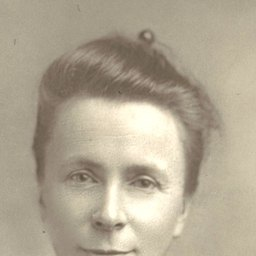
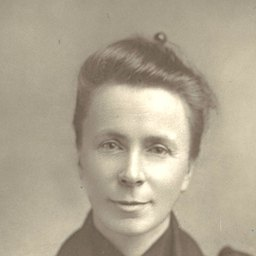
Diving Bryant: no gap under the film, "Why is Jeju's sea special?" in its own box, her whole face
After Daniel looked at the live page. On a wide screen the film and a new box share one
column and the heading and the depth line the other, both of one height: the box grows or
the steps of the line spread, and every size in the block is a multiple of one unit that
grows with the screen at the film's rate (measured from 1280 to 2200 px). "Why Jeju?"
was a grey line at the foot; it is now a tangerine box of three short points, each with
a small sign. Sophie Bryant's portrait is cut again so her whole face is in the circle.

diff --git a/css/hub.css b/css/hub.css
@@ -824,7 +824,12 @@ body[data-view]:not([data-view="revision"]) .beyond{margin-top:4px}
    buildFeature). The block is a column of water: light at the top, dark at the foot, so reading
    down the page is going down. The film stands beside the words on a wide screen and between the
    heading and the depth line on a narrow one. */
+/* --k is the block's unit of type: 12.8px up to a 1280px screen, then 1% of the screen's width up to
+   1600px. Every size in the block is a multiple of it, so from 1280px the words grow at the rate the
+   film grows and the two columns keep one height. Past 1600px the block's contents stop growing
+   (max-width below) and stand in the middle of the water. */
 .feat{
+  --k:clamp(12.8px,1vw,16px);
   position:relative;isolation:isolate;overflow:hidden;flex:none;border-radius:10px;
   padding:clamp(16px,2.2vw,34px);color:var(--chalk);
   background:linear-gradient(180deg,#0C6480 0%,#0A4D6B 20%,#083855 48%,#06253E 76%,#04172B 100%)
@@ -855,19 +860,28 @@ body[data-view]:not([data-view="revision"]) .beyond{margin-top:4px}
 }
 .feat__main{
   display:grid;grid-template-columns:minmax(0,1.55fr) minmax(290px,1fr);
-  grid-template-areas:"film head" "film rail";grid-template-rows:auto 1fr;
-  gap:clamp(14px,1.6vw,22px) clamp(18px,2.6vw,40px);align-items:start
+  gap:clamp(14px,1.6vw,22px) clamp(18px,2.6vw,40px);align-items:stretch
 }
+.feat__main,.feat__stills,.facts{max-width:1476px;margin-left:auto;margin-right:auto}
+/* Two columns of one height. The film and the "why" box stand in one, the heading and the depth line
+   in the other, and the slack goes where it is not seen as a hole: the box grows, or the steps of the
+   line spread. (With the film alone in its column, the taller words left empty water under it.) Below
+   1280px the two wrappers stand aside (`display:contents`) and the four parts are laid out by area. */
+.feat__a,.feat__b{display:flex;flex-direction:column;min-width:0;gap:clamp(12px,1.4vw,18px)}
+.feat__a{grid-column:1;grid-row:1}
+.feat__b{grid-column:2;grid-row:1}
 .feat__head{grid-area:head;min-width:0}
 .feat__film{grid-area:film;margin:0;min-width:0}
-.feat__rail{grid-area:rail;min-width:0}
-.feat__no{font-family:var(--mono);font-size:10.5px;font-weight:500;letter-spacing:.16em;text-transform:uppercase;color:var(--accent)}
-.feat__title{font-family:var(--serif);font-size:clamp(30px,3.3vw,50px);letter-spacing:-.018em;margin-top:6px;color:#fff}
+.feat__rail{grid-area:rail;min-width:0;flex:1 1 auto;display:flex;flex-direction:column}
+.feat__rail .rail{flex:1 1 auto;display:flex;flex-direction:column;justify-content:space-between}
+.why{grid-area:why;flex:1 1 auto}
+.feat__no{font-family:var(--mono);font-size:calc(var(--k) * .82);font-weight:500;letter-spacing:.16em;text-transform:uppercase;color:var(--accent)}
+.feat__title{font-family:var(--serif);font-size:clamp(30px,3.3vw,53px);letter-spacing:-.018em;margin-top:6px;color:#fff}
 .feat__title em{font-style:italic;color:var(--accent)}
-.feat__sub{font-family:var(--serif);font-style:italic;font-size:clamp(17px,1.5vw,23px);line-height:1.25;color:#C9F1F6;margin-top:4px}
-.feat__lede{margin-top:12px;font-size:15px;color:#DCEAF1}
+.feat__sub{font-family:var(--serif);font-style:italic;font-size:clamp(17px,1.5vw,24px);line-height:1.25;color:#C9F1F6;margin-top:4px}
+.feat__lede{margin-top:12px;font-size:calc(var(--k) * 1.172);color:#DCEAF1}
 .feat .door__chips{max-height:none;opacity:1;margin-top:14px}
-.feat .chip{color:#EAF6FA;border-color:rgba(255,255,255,.3);background:rgba(4,23,43,.35)}
+.feat .chip{font-size:calc(var(--k) * .78);color:#EAF6FA;border-color:rgba(255,255,255,.3);background:rgba(4,23,43,.35)}
 
 /* the film: nothing is fetched until the press */
 .film{
@@ -896,25 +910,41 @@ body[data-view]:not([data-view="revision"]) .beyond{margin-top:4px}
 .film__play:focus-visible{outline-offset:-4px}
 .film__lbl{font-family:var(--serif);font-size:clamp(20px,2.1vw,30px);line-height:1.15;text-shadow:0 2px 14px rgba(0,8,22,.7)}
 .film__len{font-family:var(--mono);font-size:10.5px;letter-spacing:.14em;text-transform:uppercase;color:#D5EEF5}
-.film__credit{margin-top:9px;font-size:12.5px;color:#B9D3DE}
+.film__credit{margin-top:9px;font-size:calc(var(--k) * .977);color:#B9D3DE}
 
 /* the depth line: each step of the course at its depth. The step the film is in is lit. */
-.feat__label,.feat__h h3{font-family:var(--mono);font-size:10.5px;font-weight:500;letter-spacing:.16em;text-transform:uppercase;color:#A9DCE8}
+.feat__label,.feat__h h3{font-family:var(--mono);font-size:calc(var(--k) * .82);font-weight:500;letter-spacing:.16em;text-transform:uppercase;color:#A9DCE8}
 .rail{position:relative;margin-top:8px}
 .rail::before{content:"";position:absolute;left:66px;top:16px;bottom:16px;width:1px;background:linear-gradient(rgba(190,236,246,.9),rgba(190,236,246,.2))}
 .rail__step{position:relative;display:grid;grid-template-columns:48px 20px minmax(0,1fr);column-gap:8px;padding:7px 0;align-items:start}
-.rail__mark{font-family:var(--mono);font-size:11px;letter-spacing:.04em;text-align:right;color:#A9DCE8;padding-top:3px;white-space:nowrap;transition:color .3s}
+.rail__mark{font-family:var(--mono);font-size:calc(var(--k) * .86);letter-spacing:.04em;text-align:right;color:#A9DCE8;padding-top:3px;white-space:nowrap;transition:color .3s}
 .rail__dot{justify-self:center;width:11px;height:11px;margin-top:5px;border-radius:50%;background:#0A4D6B;border:1.5px solid #BEECF6;position:relative;z-index:1;transition:background .3s,box-shadow .3s,border-color .3s}
-.rail__t{font-weight:500;font-size:14.5px;color:#fff}
+.rail__t{font-weight:500;font-size:calc(var(--k) * 1.2);color:#fff}
 .rail__t::after{content:".";}
-.rail__text{font-size:14px;line-height:1.5;color:#D3E4EC}
+.rail__text{font-size:calc(var(--k) * 1.172);line-height:1.5;color:#D3E4EC}
 .rail__step.is-live .rail__mark{color:#fff}
 .rail__step.is-live .rail__dot{background:var(--accent);border-color:#fff;box-shadow:0 0 0 5px color-mix(in srgb,var(--accent) 32%,transparent)}
+
+/* the "why" box: the colour of a Jeju tangerine on the cold water, so it is seen (Daniel, 2 Oct 2026:
+   "right now you don't really see it"). Dark words on it. A heading and two or three short points. */
+.why{
+  display:flex;flex-direction:column;justify-content:center;gap:10px;border-radius:12px;
+  padding:clamp(12px,1.2vw,16px) clamp(14px,1.5vw,20px);color:#2B1608;
+  background:linear-gradient(115deg,#FF9A63 0%,#FFB45E 55%,#FFC873 100%);
+  box-shadow:inset 0 0 0 1px rgba(255,255,255,.35),0 12px 34px rgba(0,8,22,.4)
+}
+.why__k{font-family:var(--serif);font-size:clamp(18px,1.45vw,24px);line-height:1.15;color:#1A0F08}
+.why__list{display:grid;grid-template-columns:repeat(3,minmax(0,1fr));gap:10px clamp(12px,1.4vw,22px)}
+.why__i{display:flex;flex-direction:column;gap:5px;min-width:0}
+.why__top{display:flex;align-items:center;gap:8px;min-width:0}
+.why__ico{flex:none;display:grid;place-items:center;width:30px;height:30px;border-radius:50%;color:#FFC873;background:#0A3350}
+.why__t{font-weight:600;font-size:calc(var(--k) * 1.055);line-height:1.25;color:#1A0F08}
+.why__text,.why__p{font-size:calc(var(--k) * 1.016);line-height:1.45;color:#3A2110}
 
 /* the stills */
 .feat__stills{margin-top:clamp(20px,2.6vw,34px)}
 .feat__h{display:flex;flex-wrap:wrap;align-items:baseline;gap:4px 16px;margin-bottom:10px}
-.feat__hint{font-size:13px;color:#C3D9E3}
+.feat__hint{font-size:calc(var(--k) * 1.016);color:#C3D9E3}
 .stills{display:grid;grid-template-columns:repeat(5,minmax(0,1fr));gap:10px}
 .stills__i{display:flex;min-width:0}
 .still{
@@ -930,17 +960,15 @@ body[data-view]:not([data-view="revision"]) .beyond{margin-top:4px}
   font-family:var(--mono);font-size:10.5px;letter-spacing:.04em;color:#04172B;background:rgba(255,255,255,.92)
 }
 .still__cap{display:flex;flex-direction:column;gap:3px;padding:10px 12px 12px}
-.still__t{font-family:var(--serif);font-weight:400;font-size:17px;line-height:1.2;color:#fff}
-.still__sci{font-family:var(--serif);font-style:italic;font-size:13.5px;line-height:1.2;color:#A9DCE8}
-.still__text{font-size:13px;line-height:1.45;color:#CFE0E8}
-.feat__why{margin-top:14px;font-size:14px;line-height:1.55;color:#D3E4EC}
-.feat__why b{font-weight:500;color:#fff;margin-right:4px}
+.still__t{font-family:var(--serif);font-weight:400;font-size:calc(var(--k) * 1.33);line-height:1.2;color:#fff}
+.still__sci{font-family:var(--serif);font-style:italic;font-size:calc(var(--k) * 1.055);line-height:1.2;color:#A9DCE8}
+.still__text{font-size:calc(var(--k) * 1.016);line-height:1.45;color:#CFE0E8}
 
 /* the facts */
-.facts{display:grid;grid-template-columns:repeat(auto-fit,minmax(210px,1fr));gap:10px;margin:clamp(16px,2vw,24px) 0 0}
+.facts{display:grid;grid-template-columns:repeat(auto-fit,minmax(210px,1fr));gap:10px;margin:clamp(16px,2vw,24px) auto 0}
 .fact{padding:10px 14px;border-radius:0 8px 8px 0;border-left:2px solid var(--accent);background:rgba(2,16,28,.42)}
 .fact dt{font-family:var(--mono);font-size:10px;letter-spacing:.14em;text-transform:uppercase;color:#A9DCE8}
-.fact dd{margin:3px 0 0;font-size:14.5px;line-height:1.45;color:#fff}
+.fact dd{margin:3px 0 0;font-size:calc(var(--k) * 1.133);line-height:1.45;color:#fff}
 /* an address is one long word: it goes on a line of its own, and may break, before it pushes a phone's page wide */
 .fact__mail{display:block;width:max-content;max-width:100%;overflow-wrap:anywhere;color:var(--accent);border-bottom:1px solid color-mix(in srgb,var(--accent) 45%,transparent)}
 .fact__mail:hover,.fact__mail:focus-visible{color:#fff;border-bottom-color:#fff}
@@ -954,8 +982,10 @@ body[data-view]:not([data-view="revision"]) .beyond{margin-top:4px}
    the depth line together stood far taller than the film and left a third of a screen of empty
    water under it. There the depth line lies along the foot instead, its steps side by side. */
 @media (min-width:901px) and (max-width:1279px){
-  .feat__main{grid-template-areas:"film head" "rail rail";grid-template-rows:auto auto;align-items:center}
-  .rail{display:grid;grid-auto-flow:column;grid-auto-columns:minmax(0,1fr);column-gap:22px}
+  .feat__a,.feat__b{display:contents}
+  .feat__main{grid-template-areas:"film head" "rail rail" "why why";grid-template-rows:auto auto auto;align-items:center}
+  .feat__rail{display:block}
+  .feat__rail .rail{display:grid;grid-auto-flow:column;grid-auto-columns:minmax(0,1fr);column-gap:22px}
   .rail::before{left:0;right:0;top:30px;bottom:auto;width:auto;height:1px;background:linear-gradient(to right,rgba(190,236,246,.9),rgba(190,236,246,.2))}
   .rail__step{display:block;padding:0}
   .rail__mark{display:block;text-align:left;padding:0;line-height:20px}
@@ -963,7 +993,9 @@ body[data-view]:not([data-view="revision"]) .beyond{margin-top:4px}
   .rail__txt{display:block}
 }
 @media (max-width:900px){
-  .feat__main{grid-template-columns:minmax(0,1fr);grid-template-areas:"head" "film" "rail";grid-template-rows:auto}
+  .feat__a,.feat__b{display:contents}
+  .feat__main{grid-template-columns:minmax(0,1fr);grid-template-areas:"head" "film" "rail" "why";grid-template-rows:auto}
+  .feat__rail,.feat__rail .rail{display:block}
   .feat .chip{font-size:10px;padding:4px 9px}
 }
 @media (max-width:560px){
@@ -980,6 +1012,7 @@ body[data-view]:not([data-view="revision"]) .beyond{margin-top:4px}
   .stills__i:last-child .still__cap{align-self:center}
   /* on a phone the card keeps the name and the link; the line between them is the first thing to go */
   .mnote__text{display:none}
+  .why__list{grid-template-columns:minmax(0,1fr)}
   .rail::before{left:60px}
   .rail__step{grid-template-columns:42px 20px minmax(0,1fr)}
 }

diff --git a/js/hub.js b/js/hub.js
@@ -355,6 +355,10 @@
        rail    the steps, each at its depth. A step with `from` (a second of the film) lights while
                the film is in that part, so the line follows the film down.
        stills  a still with `at` is a button: it plays the film from that second.
+       why     one coloured box of two or three short points, each with a small sign. On a wide
+               screen it stands under the film, and it is what makes the two columns the same
+               height: the box grows, or the steps of the rail spread, so that no empty water
+               is left under the film (css/hub.css, .feat__a and .feat__b).
 
      Nothing here moves for a reader who has asked for less movement: the stylesheet's own rule
      stops the water, and the film only ever plays when asked. */
@@ -365,6 +369,13 @@
       '<img class="' + cls + '" src="' + b + '-' + widths[widths.length - 1] + '.jpg" srcset="' + set('jpg') + '" sizes="' + sizes + '"' +
       ' alt="' + esc(alt || '') + '" loading="lazy" decoding="async" draggable="false"></picture>';
   }
+  /* the small signs in a feature's `why` box, named by `icon` in js/local.js: a current, two fish that
+     meet, a shield. Signs, not drawings of anything: each is a few strokes. */
+  var WHY_ICON = {
+    current: '<svg viewBox="0 0 24 24" width="20" height="20" fill="none" stroke="currentColor" stroke-width="1.8" stroke-linecap="round" stroke-linejoin="round"><path d="M2.5 8.5c2.4-2 4.6-2 7 0s4.6 2 7 0"/><path d="M2.5 15.5c2.4-2 4.6-2 7 0s4.6 2 7 0"/><path d="M17.5 5.5l3.5 3-3.5 3"/><path d="M17.5 12.5l3.5 3-3.5 3"/></svg>',
+    meet: '<svg viewBox="0 0 24 24" width="20" height="20" fill="none" stroke="currentColor" stroke-width="1.8" stroke-linecap="round" stroke-linejoin="round"><path d="M2.5 8c2-2.6 5.5-2.6 7.5 0-2 2.6-5.5 2.6-7.5 0z"/><path d="M10 8l2.5-2v4z"/><path d="M21.5 16c-2-2.6-5.5-2.6-7.5 0 2 2.6 5.5 2.6 7.5 0z"/><path d="M14 16l-2.5-2v4z"/></svg>',
+    shield: '<svg viewBox="0 0 24 24" width="20" height="20" fill="none" stroke="currentColor" stroke-width="1.8" stroke-linecap="round" stroke-linejoin="round"><path d="M12 3l7.5 2.8v5.4c0 4.5-3 8-7.5 9.8-4.5-1.8-7.5-5.3-7.5-9.8V5.8z"/><path d="M8.6 12.2l2.4 2.4 4.6-4.9"/></svg>'
+  };
   function clock(sec) { sec = Math.floor(sec); return Math.floor(sec / 60) + ':' + ('0' + (sec % 60)).slice(-2); }
   function buildFeature(d) {
     var el = document.createElement('article');
@@ -380,6 +391,7 @@
     el.innerHTML =
       '<div class="feat__water" aria-hidden="true">' + bubbles + '</div>' +
       '<div class="feat__main">' +
+        '<div class="feat__b">' +
         '<header class="feat__head">' +
           '<span class="feat__no">' + esc(d.eyebrow) + '</span>' +
           '<h2 class="feat__title">' + d.title + '</h2>' +
@@ -387,6 +399,14 @@
           (d.blurb ? '<p class="feat__lede">' + esc(d.blurb) + '</p>' : '') +
           chips(d) +
         '</header>' +
+        (steps.length ? '<div class="feat__rail">' +
+          (d.rail.label ? '<h3 class="feat__label">' + esc(d.rail.label) + '</h3>' : '') +
+          '<ol class="rail">' + steps.map(function (s) {
+            return '<li class="rail__step"><span class="rail__mark">' + esc(s.mark) + '</span><span class="rail__dot" aria-hidden="true"></span>' +
+              '<span class="rail__txt"><b class="rail__t">' + esc(s.t) + '</b> <span class="rail__text">' + esc(s.text) + '</span></span></li>';
+          }).join('') + '</ol></div>' : '') +
+        '</div>' +
+        '<div class="feat__a">' +
         (f ? '<figure class="feat__film">' +
           '<div class="film" data-state="idle">' +
             '<video class="film__video" playsinline preload="none" poster="assets/doors/' + esc(f.poster) + '-1280.jpg"' +
@@ -399,12 +419,16 @@
           '</div>' +
           (f.credit ? '<figcaption class="film__credit">' + esc(f.credit) + '</figcaption>' : '') +
         '</figure>' : '') +
-        (steps.length ? '<div class="feat__rail">' +
-          (d.rail.label ? '<h3 class="feat__label">' + esc(d.rail.label) + '</h3>' : '') +
-          '<ol class="rail">' + steps.map(function (s) {
-            return '<li class="rail__step"><span class="rail__mark">' + esc(s.mark) + '</span><span class="rail__dot" aria-hidden="true"></span>' +
-              '<span class="rail__txt"><b class="rail__t">' + esc(s.t) + '</b> <span class="rail__text">' + esc(s.text) + '</span></span></li>';
-          }).join('') + '</ol></div>' : '') +
+        (d.why ? '<aside class="why"' + (d.why.k ? ' aria-label="' + esc(d.why.k) + '"' : '') + '>' +
+          (d.why.k ? '<h3 class="why__k">' + esc(d.why.k) + '</h3>' : '') +
+          (d.why.points && d.why.points.length ? '<ul class="why__list">' + d.why.points.map(function (x) {
+            return '<li class="why__i"><span class="why__top">' +
+              (WHY_ICON[x.icon] ? '<span class="why__ico" aria-hidden="true">' + WHY_ICON[x.icon] + '</span>' : '') +
+              '<b class="why__t">' + esc(x.t) + '</b></span><span class="why__text">' + esc(x.text) + '</span></li>';
+          }).join('') + '</ul>' : '') +
+          (d.why.text ? '<p class="why__p">' + esc(d.why.text) + '</p>' : '') +
+        '</aside>' : '') +
+        '</div>' +
       '</div>' +
       (list.length ? '<section class="feat__stills">' +
         '<div class="feat__h"><h3>' + esc(st.title || '') + '</h3>' + (f && st.hint ? '<p class="feat__hint">' + esc(st.hint) + '</p>' : '') + '</div>' +
@@ -419,7 +443,6 @@
             ? '<button type="button" class="still still--go" data-i="' + i + '" aria-label="' + esc(x.t + '. ' + x.text + ' Play the film from ' + clock(x.at) + '.') + '">' + inner + '</button>'
             : '<div class="still">' + inner + '</div>') + '</li>';
         }).join('') + '</ul>' +
-        (d.why ? '<p class="feat__why"><b>' + esc(d.why.k) + '</b> ' + esc(d.why.text) + '</p>' : '') +
       '</section>' : '') +
       (d.facts && d.facts.length ? '<dl class="facts">' + d.facts.map(function (x) {
         return '<div class="fact"><dt>' + esc(x.k) + '</dt><dd>' + esc(x.v) +

diff --git a/applications.html b/applications.html
@@ -12,7 +12,7 @@
 <link rel="preconnect" href="https://fonts.googleapis.com">
 <link rel="preconnect" href="https://fonts.gstatic.com" crossorigin>
 <link rel="stylesheet" href="https://fonts.googleapis.com/css2?family=Fraunces:ital,opsz,wght@0,9..144,300..600;1,9..144,300..600&family=IBM+Plex+Mono:wght@400;500&family=Inter:wght@400;500&display=swap">
-<link rel="stylesheet" href="css/hub.css?v=1790943131">
+<link rel="stylesheet" href="css/hub.css?v=1790944157">
 <style>
 /* A directory, not a brochure: the grid has to stay readable at two apps and at twenty, so a card
    carries only a picture, a name, one line and what it needs. Everything else waits in a sheet
@@ -111,7 +111,7 @@
 
       <li><a class="card" style="--ac:#2DD4BF" href="https://github.com/Mompel226/seating-plan"
              data-app="seating-plan" aria-describedby="s-seating-plan-sum">
-        <img class="card__thumb" src="assets/apps/seating-plan-card.jpg?v=1790943131" width="800" height="450" loading="lazy"
+        <img class="card__thumb" src="assets/apps/seating-plan-card.jpg?v=1790944157" width="800" height="450" loading="lazy"
              alt="A seating plan: benches of four in a room, each chair holding a card with a photograph and a name.">
         <span class="card__b">
           <span class="card__kind">Classroom</span>
@@ -124,7 +124,7 @@
 
       <li><a class="card" style="--ac:#E879F9" href="https://github.com/Mompel226/birthday-reminder"
              data-app="birthday-reminder" aria-describedby="s-birthday-sum">
-        <img class="card__thumb" src="assets/apps/birthday-calendar-card.jpg?v=1790943131" width="800" height="450" loading="lazy"
+        <img class="card__thumb" src="assets/apps/birthday-calendar-card.jpg?v=1790944157" width="800" height="450" loading="lazy"
              alt="A birthday calendar for September, with cards for today and the days after along the top.">
         <span class="card__b">
           <span class="card__kind">Pastoral</span>
@@ -168,7 +168,7 @@
 <div id="details" hidden>
 
   <div data-detail="seating-plan" data-ac="#2DD4BF" data-kind="Classroom"
-       data-shot="assets/apps/seating-plan.jpg?v=1790943131"
+       data-shot="assets/apps/seating-plan.jpg?v=1790944157"
        data-alt="A seating plan: six benches of four in a room with a whiteboard, screen and teacher's desk at the front. Each chair holds a card with a photograph, a first name and a surname."
        data-repo="https://github.com/Mompel226/seating-plan">
     <h3 data-name>Draw the room once, then <em>drag faces into chairs</em></h3>
@@ -189,7 +189,7 @@
   </div>
 
   <div data-detail="birthday-reminder" data-ac="#E879F9" data-kind="Pastoral"
-       data-shot="assets/apps/birthday-calendar.jpg?v=1790943131"
+       data-shot="assets/apps/birthday-calendar.jpg?v=1790944157"
        data-alt="A birthday calendar for September, with cards along the top for today, tomorrow and the days after, and small student cards on the dates in the month grid."
        data-repo="https://github.com/Mompel226/birthday-reminder">
     <h3 data-name>A window that <em>finds you</em>, in the morning</h3>

diff --git a/js/local.js b/js/local.js
@@ -72,7 +72,8 @@
                      press plays the film from that second; `sci` is the
                      scientific name, set in italics, and is given only where
                      the species was checked against a published description;
-             why     { k, text }: one closing line;
+             why     { k, points:[{ icon, t, text }] }: one coloured box of short
+                     points; `icon` is "current", "meet" or "shield" (js/hub.js);
              facts   [{ k, v, mail }]: with `mail`, the address follows the
                      words as a link that opens a new email.
    open    extra entries in "Open now"
@@ -399,7 +400,11 @@ window.HUB_LOCAL = {
           { img:'diving-seafan', t:'A red sea fan',
             text:'It is not a plant: it is a colony of small animals called polyps. A fish is resting below it, and its colours match the rock. Can you see it?',
             alt:'A red sea fan with white polyps on a reef; a mottled brown fish rests on the rock under it' } ] },
-      why:{ k:'Why Jeju?', text:'A warm ocean current, the Tsushima Current, flows past Jeju. Animals from warm seas, such as the anemonefish, live here beside animals from colder seas. The coral communities of Jeju, with their soft corals and sea fans, are protected as a Natural Monument of Korea.' },
+      why:{ k:'Why is Jeju\u2019s sea special?',
+        points:[
+          { icon:'current', t:'A warm current', text:'The Tsushima Current brings warm water past Jeju.' },
+          { icon:'meet',    t:'Warm seas meet cold seas', text:'Animals of warm seas, such as the anemonefish, live beside animals of colder seas.' },
+          { icon:'shield',  t:'Protected corals', text:'Jeju\u2019s soft corals and sea fans are protected as a Natural Monument of Korea.' } ] },
       facts:[
         { k:'Who',    v:'Year 9 and above' },
         { k:'When',   v:'Saturday mornings, in Bryant. Open-sea dives begin in April.' },

diff --git a/analysis.html b/analysis.html
@@ -16,9 +16,9 @@
 <link rel="preconnect" href="https://fonts.googleapis.com">
 <link rel="preconnect" href="https://fonts.gstatic.com" crossorigin>
 <link rel="stylesheet" href="https://fonts.googleapis.com/css2?family=Fraunces:ital,opsz,wght@0,9..144,300..600;1,9..144,300..600&family=IBM+Plex+Mono:wght@400;500&family=Inter:wght@400;500;600&display=swap">
-<link rel="stylesheet" href="css/analysis.css?v=1790943131">
+<link rel="stylesheet" href="css/analysis.css?v=1790944157">
 <!-- the bright or the dark version, set before the page draws (the computer's own setting until ☀/☾ is pressed) -->
-<script src="js/theme.js?v=1790943131"></script>
+<script src="js/theme.js?v=1790944157"></script>
 </head>
 <body>
 
@@ -45,10 +45,10 @@
 
 <!-- Google's sign-in, in English on every computer (hl=en-GB) -->
 <script src="https://accounts.google.com/gsi/client?hl=en-GB" async defer></script>
-<script src="js/local.js?v=1790943131"></script>
-<script src="js/signin.js?v=1790943131"></script>
-<script src="js/balance.js?v=1790943131"></script>
-<script src="js/syllabus-outline.js?v=1790943131"></script>
-<script src="js/analysis.js?v=1790943131"></script>
+<script src="js/local.js?v=1790944157"></script>
+<script src="js/signin.js?v=1790944157"></script>
+<script src="js/balance.js?v=1790944157"></script>
+<script src="js/syllabus-outline.js?v=1790944157"></script>
+<script src="js/analysis.js?v=1790944157"></script>
 </body>
 </html>

diff --git a/index.html b/index.html
@@ -12,7 +12,7 @@
 <link rel="preconnect" href="https://fonts.googleapis.com">
 <link rel="preconnect" href="https://fonts.gstatic.com" crossorigin>
 <link rel="stylesheet" href="https://fonts.googleapis.com/css2?family=Fraunces:ital,opsz,wght@0,9..144,300..600;1,9..144,300..600&family=IBM+Plex+Mono:wght@400;500&family=Inter:wght@400;500&display=swap">
-<link rel="stylesheet" href="css/hub.css?v=1790943131">
+<link rel="stylesheet" href="css/hub.css?v=1790944157">
 </head>
 <body>
 
@@ -177,12 +177,12 @@
      leaves the rest of the hub exactly as it is — js/hub.js checks before it asks. -->
 <script src="https://accounts.google.com/gsi/client?hl=en-GB" async defer></script>
 
-<script src="js/data/labs.js?v=1790943131"></script>
-<script src="js/data/syllabus-years.js?v=1790943131"></script>
-<script src="js/progress.js?v=1790943131"></script>
-<script src="js/signin.js?v=1790943131"></script>
-<script src="js/shelves.js?v=1790943131"></script>
-<script src="js/local.js?v=1790943131"></script>
-<script src="js/hub.js?v=1790943131"></script>
+<script src="js/data/labs.js?v=1790944157"></script>
+<script src="js/data/syllabus-years.js?v=1790944157"></script>
+<script src="js/progress.js?v=1790944157"></script>
+<script src="js/signin.js?v=1790944157"></script>
+<script src="js/shelves.js?v=1790944157"></script>
+<script src="js/local.js?v=1790944157"></script>
+<script src="js/hub.js?v=1790944157"></script>
 </body>
 </html>
